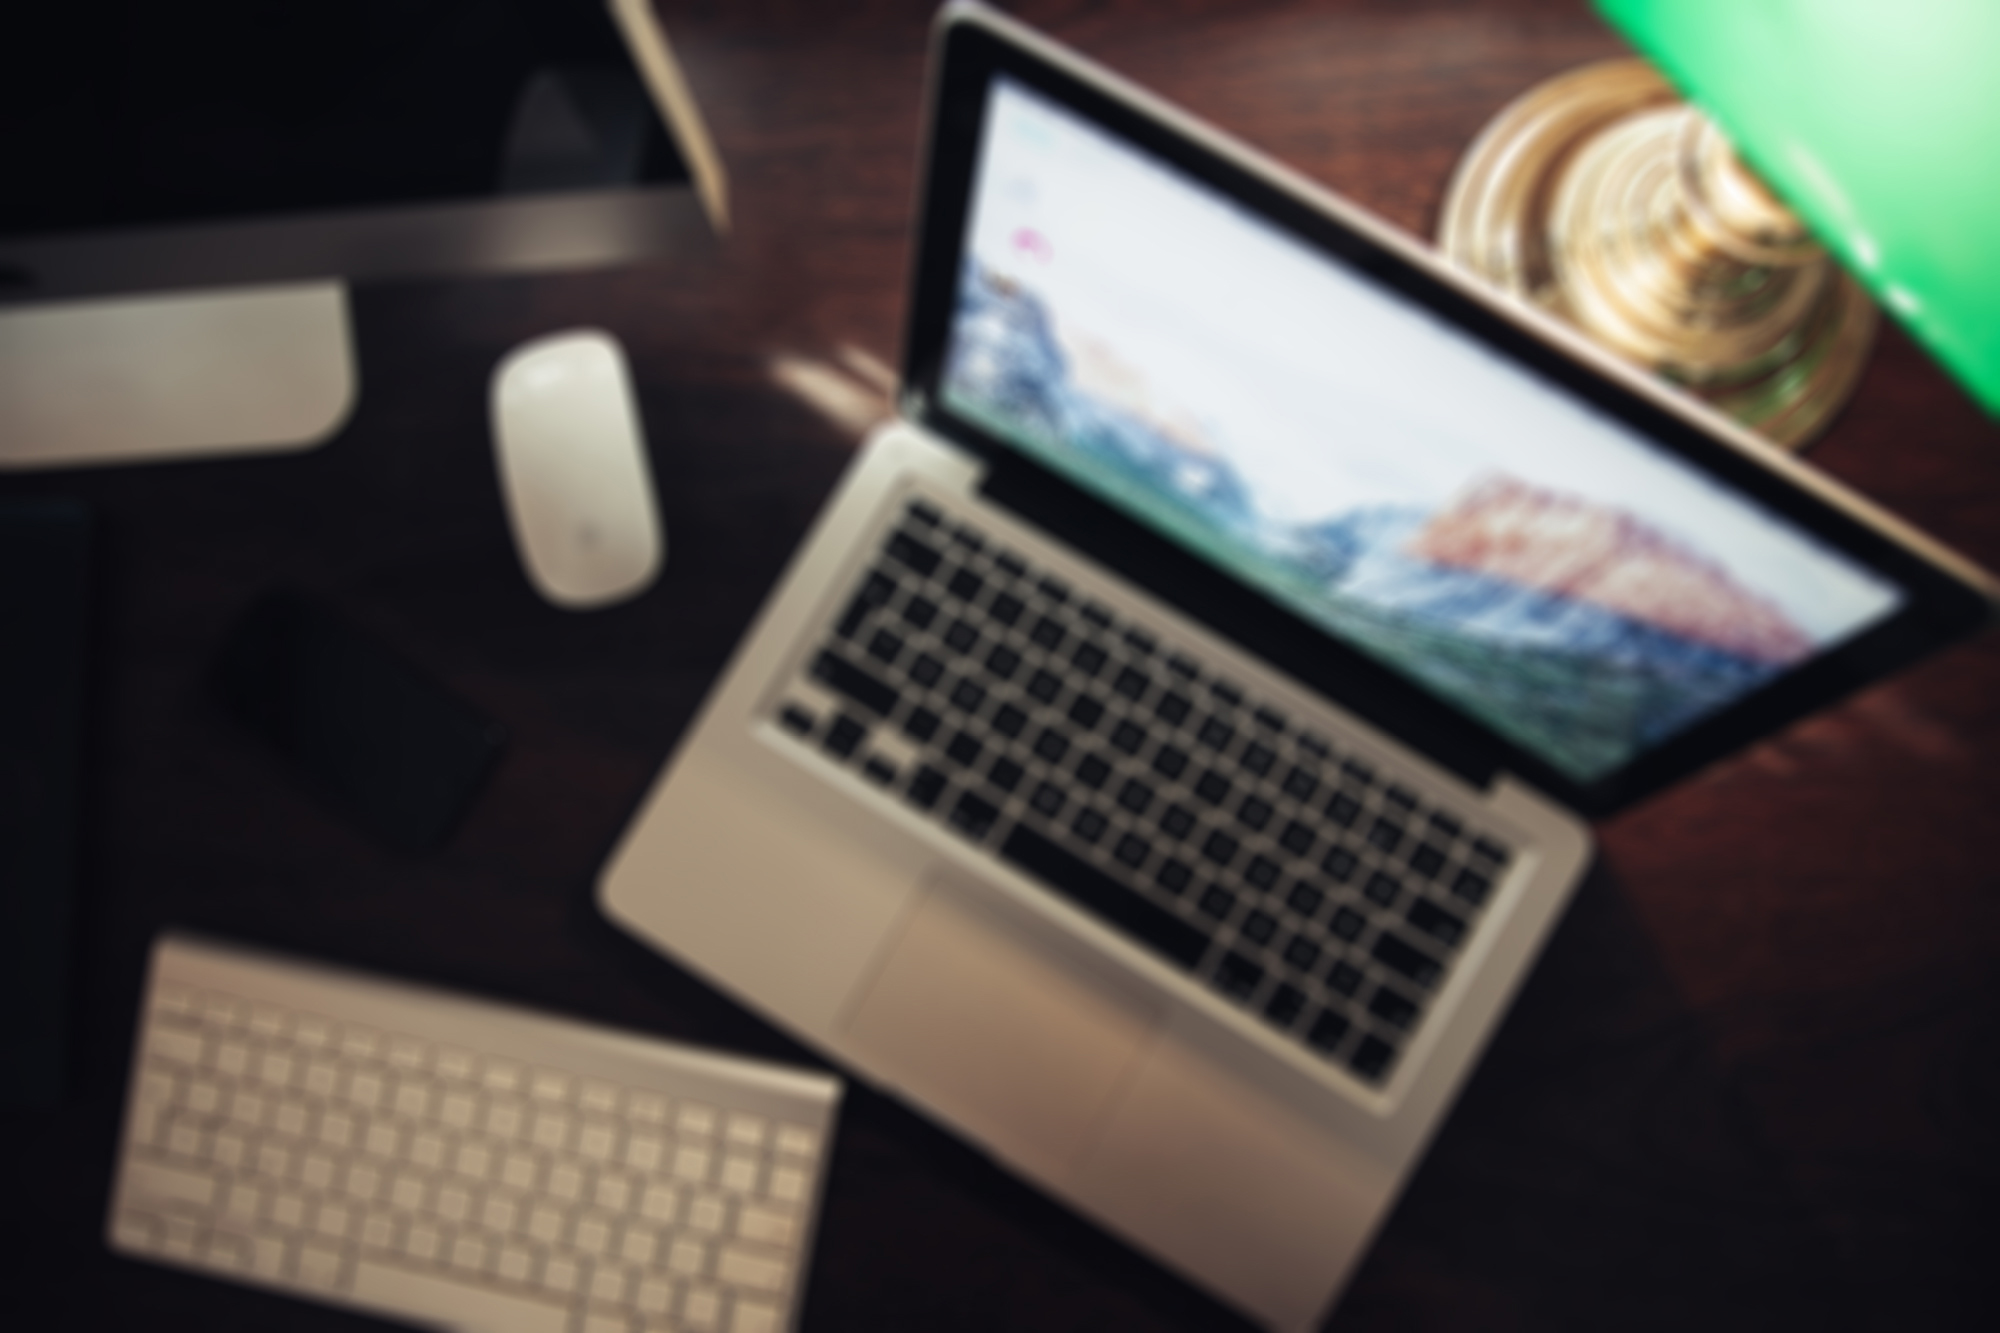
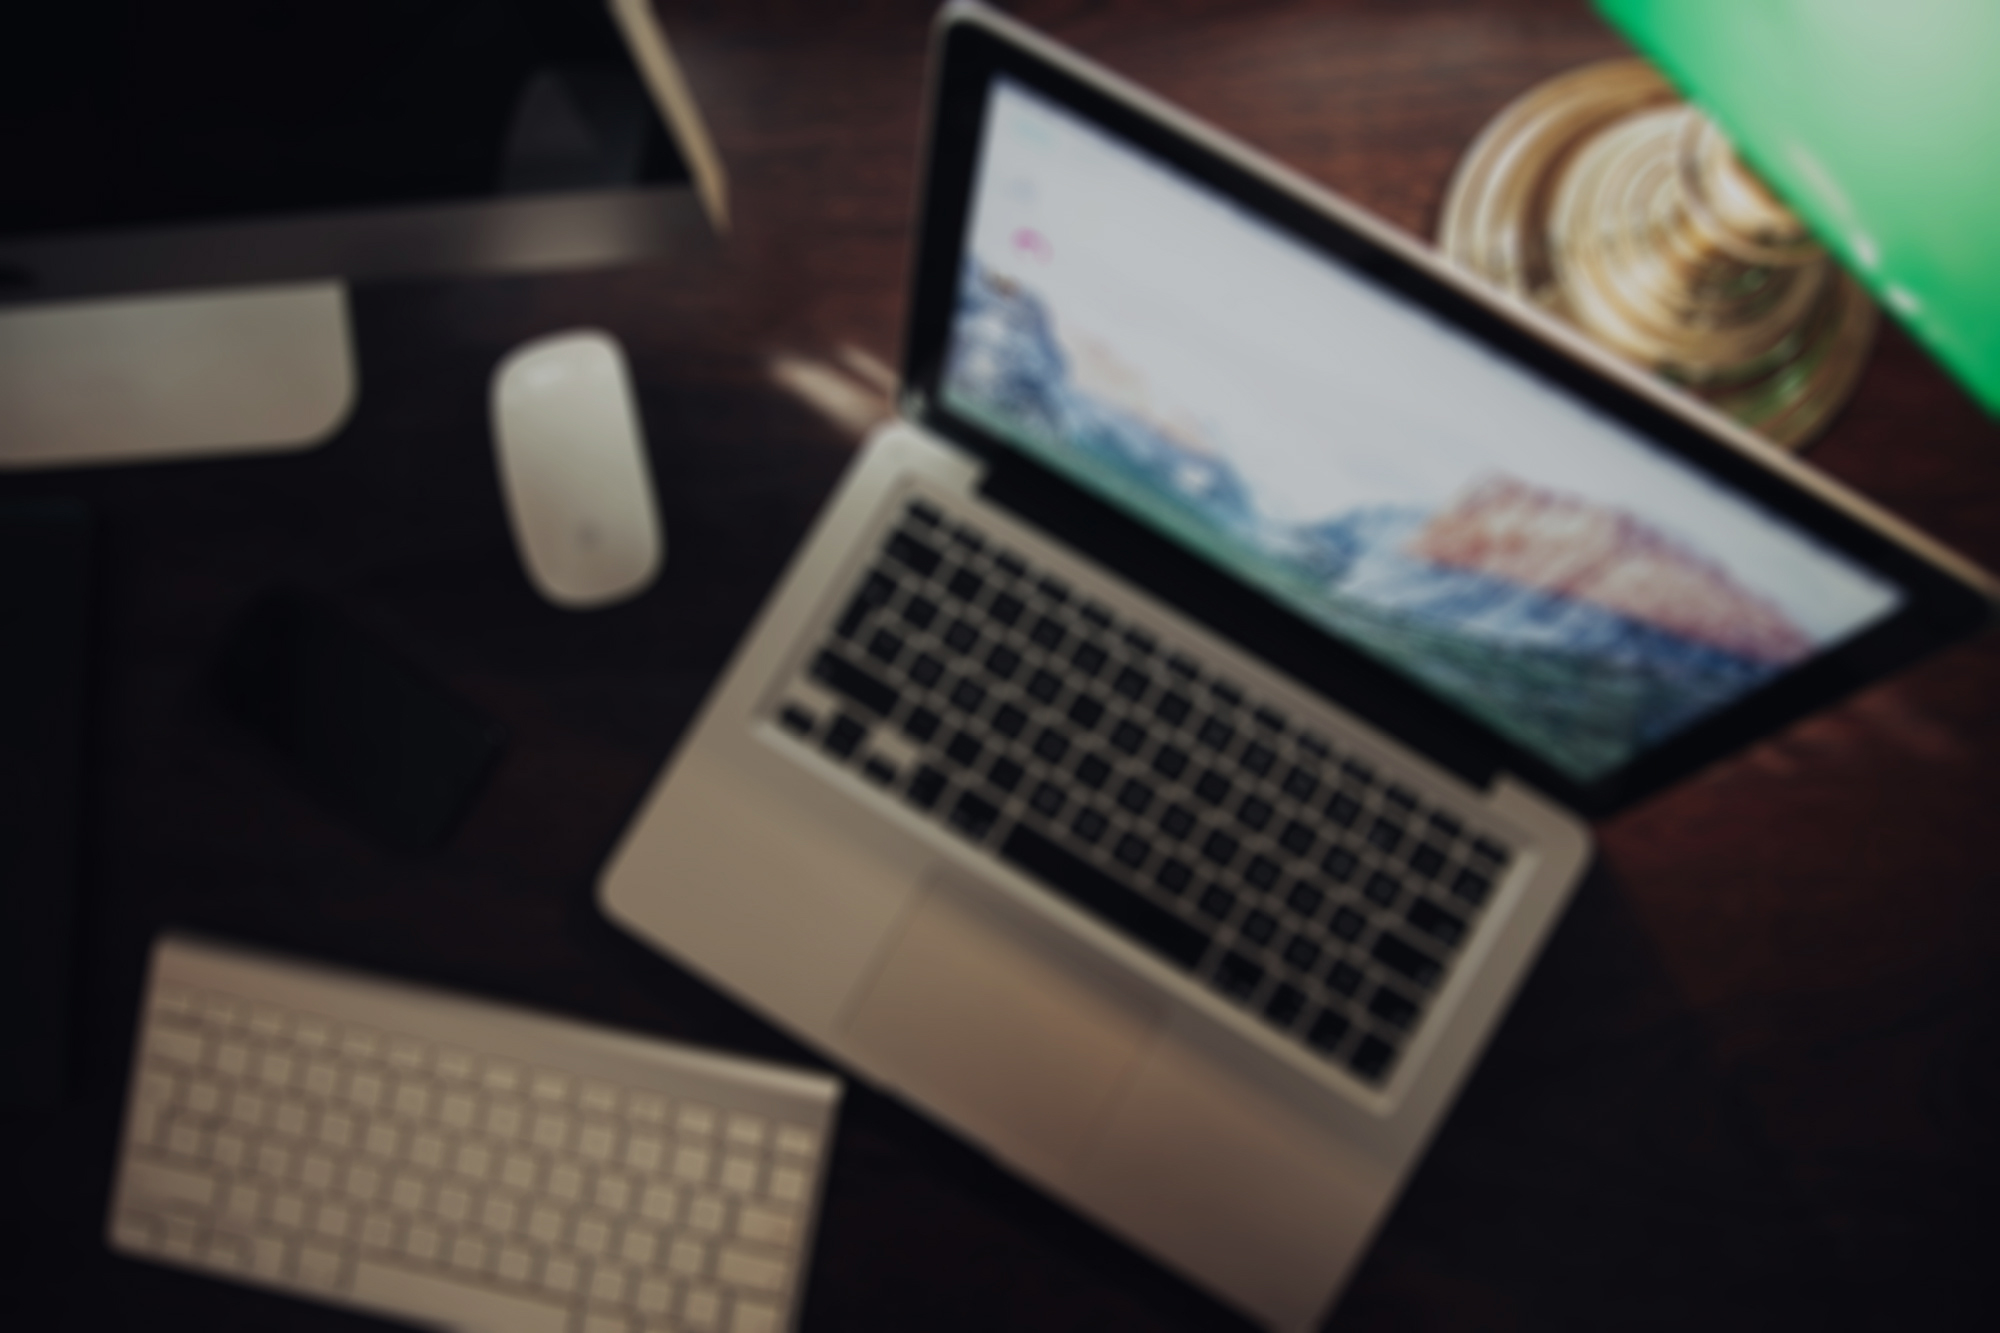
darker background img

diff --git a/styles.css b/styles.css
@@ -2,23 +2,18 @@ body {
     color: white;
 	font-family: 'Josefin Sans', sans-serif;
 	background-color: black;
+	background-image: url(background_img.jpg);
+	background-size: cover;
+	background-attachment: fixed;
+	top: 0;
+	left: 0;
+	bottom: 0;
+	right: 0;
+	position: absolute;
+	z-index: -1;
 }
 
-body::after {
-  content: "";
-  background-image: url(background_img.jpg);
-  background-size: cover;
-  background-attachment: fixed;
-  opacity: 0.8;
-  top: 0;
-  left: 0;
-  bottom: 0;
-  right: 0;
-  position: absolute;
-  z-index: -1;
-}
-
-header:hover {
+h1:hover {
 	-webkit-filter: blur(2px);
 }
 
@@ -50,7 +45,7 @@ a:active {
 	height: 0;
 	border-style: solid;
 	border-width: 200px 200px 0 0;
-	border-color: #007bff transparent transparent transparent;
+	border-color: #0db4f2 transparent transparent transparent;
 	margin-top: -8px;
 	margin-left: -8px;
 	margin-right: -8px;
